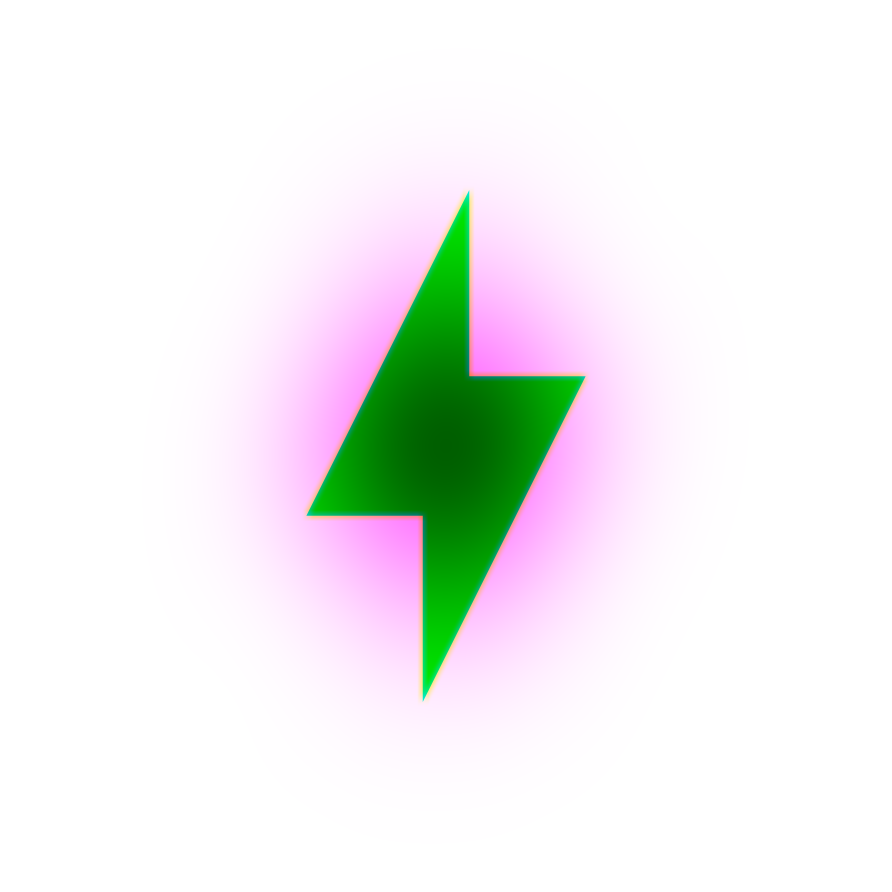
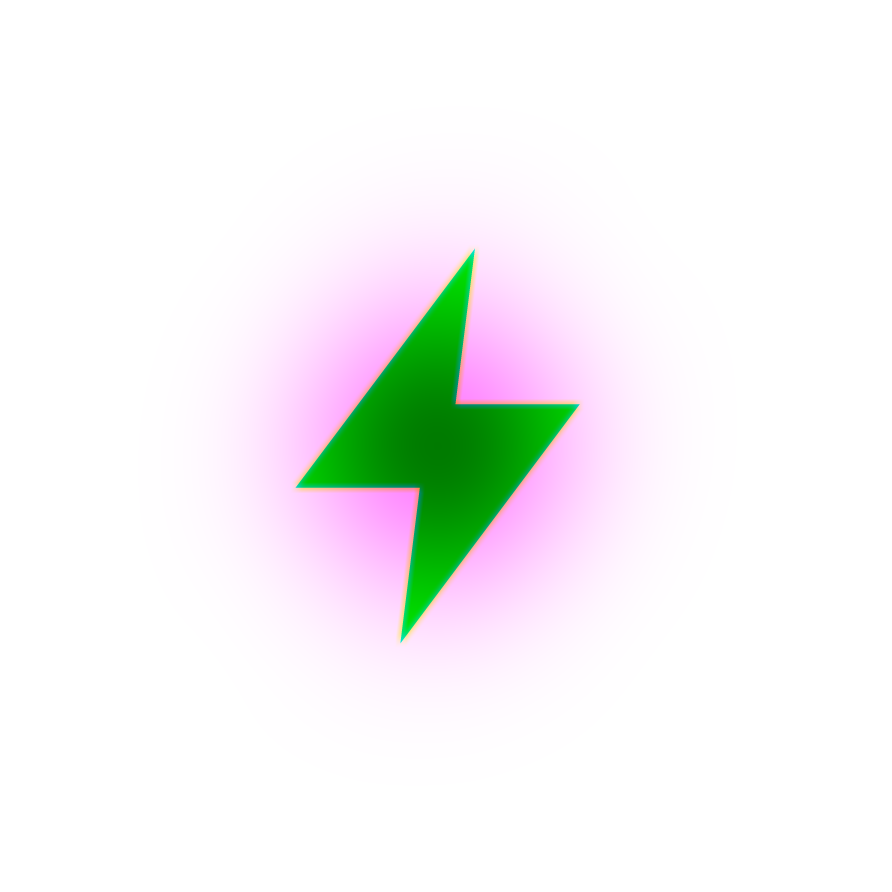
Match the Plasma bolt mask to the authored outline

Changed region(s): [[0.333, 0.2119, 0.6659, 0.787]]

diff --git a/tool/heatmap_texture.dart b/tool/heatmap_texture.dart
@@ -10,43 +10,34 @@
 //   R  the shape itself: 0 inside the mark, 1 outside
 //   G  the shape under a wide blur: drives the inner and outer glow
 //   B  the shape under a tight blur: the hot contour at the edge
-// The sizes follow the same proportions (blur 15% of the mark, padding 2.5
-// blurs), on a square canvas so the widget can be square.
+// The square texture keeps the original blur radii and padding.
 import 'dart:io';
+import 'dart:math' as math;
 import 'dart:typed_data';
 
 import 'package:image/image.dart' as img;
 
-/// Material Design Icons' lightning-bolt, the bolt Syrius uses for plasma,
-/// on its 24 unit grid: M11 15H6L13 1V9H18L11 23V15Z.
+/// The Plasma and Fuse mockups use M13 2 4 14h7l-1 8 9-12h-7z.
 const List<List<double>> _bolt = <List<double>>[
-  <double>[11, 15],
-  <double>[6, 15],
-  <double>[13, 1],
-  <double>[13, 9],
-  <double>[18, 9],
-  <double>[11, 23],
+  <double>[13, 2],
+  <double>[4, 14],
+  <double>[11, 14],
+  <double>[10, 22],
+  <double>[19, 10],
+  <double>[12, 10],
 ];
 
-const int _mark = 512;
+const int _rasterBase = 512;
 
 void main(List<String> args) {
   if (args.length == 2 && args[0] == '--inspect') {
     _inspect(args[1]);
     return;
   }
-  final int maxBlur = (_mark * 0.15).floor();
+  final int maxBlur = (_rasterBase * 0.15).floor();
   final int padding = (maxBlur * 2.5).ceil();
-  final int size = _mark + 2 * padding;
-
-  // The bolt, centred, as tall as the mark area.
-  final double scale = _mark / 22; // the path spans y 1..23
-  final double offsetX = padding + (_mark - 12 * scale) / 2 - 6 * scale;
-  final double offsetY = padding - 1 * scale;
-  final List<List<double>> polygon = <List<double>>[
-    for (final List<double> p in _bolt)
-      <double>[p[0] * scale + offsetX, p[1] * scale + offsetY],
-  ];
+  final int size = _rasterBase + 2 * padding;
+  final List<List<double>> polygon = _boltOutline(size);
 
   final Uint8List gray = Uint8List(size * size);
   const int samples = 4;
@@ -82,6 +73,35 @@ void main(List<String> args) {
   final File file = File('assets/images/plasma_heatmap.png')
     ..writeAsBytesSync(img.encodePng(out));
   stdout.writeln('${file.path}: ${size}x$size, ${file.lengthSync()} bytes');
+}
+
+List<List<double>> _boltOutline(int textureSize) {
+  // The 24-unit SVG is 54 px square in the reference's 120 px slots.
+  final double scale = textureSize * 54 / (120 * 24);
+  final double offset = (textureSize - 24 * scale) / 2;
+  final List<List<double>> outline = <List<double>>[];
+  for (int i = 0; i < _bolt.length; i++) {
+    final List<double> point = _bolt[i];
+    final (double ax, double ay) =
+        _leftNormal(_bolt[(i + _bolt.length - 1) % _bolt.length], point);
+    final (double bx, double by) =
+        _leftNormal(point, _bolt[(i + 1) % _bolt.length]);
+    // Expand the filled polygon by the reference's 1-unit miter stroke.
+    // All six joins fit inside the SVG default miter limit.
+    final double extension = 0.5 / (1 + ax * bx + ay * by);
+    outline.add(<double>[
+      offset + (point[0] + (ax + bx) * extension) * scale,
+      offset + (point[1] + (ay + by) * extension) * scale,
+    ]);
+  }
+  return outline;
+}
+
+(double, double) _leftNormal(List<double> start, List<double> end) {
+  final double dx = end[0] - start[0];
+  final double dy = end[1] - start[1];
+  final double length = math.sqrt(dx * dx + dy * dy);
+  return (-dy / length, dx / length);
 }
 
 bool _contains(List<List<double>> polygon, double x, double y) {

diff --git a/test/rearchitecture/utils/widgets/plasma_well_test.dart b/test/rearchitecture/utils/widgets/plasma_well_test.dart
@@ -1,3 +1,4 @@
+import 'dart:math' as math;
 import 'dart:ui' as ui;
 
 import 'package:flutter/rendering.dart';
@@ -99,7 +100,24 @@ void main() {
       await tester.pump();
     }
     expect(mark, findsOneWidget);
-    expect((await _markPixels(tester, mark)).getUint32(center), 0xffffffff);
+    final ByteData idle = await _markPixels(tester, mark);
+    expect(idle.getUint32(center), 0xffffffff);
+    int left = size;
+    int top = size;
+    int right = 0;
+    int bottom = 0;
+    for (int y = 0; y < size; y++) {
+      for (int x = 0; x < size; x++) {
+        if (idle.getUint32((y * size + x) * 4) != 0xffffffff) continue;
+        left = math.min(left, x);
+        top = math.min(top, y);
+        right = math.max(right, x);
+        bottom = math.max(bottom, y);
+      }
+    }
+    // Allow for texture sampling of the authored 54 px viewport's edges.
+    expect(right - left + 1, closeTo(36, 3));
+    expect(bottom - top + 1, closeTo(48, 3));
     await tester.pumpWidget(host(active: true));
     await tester.pump();
     final ByteData initial = await _markPixels(tester, mark);

diff --git a/lib/rearchitecture/utils/widgets/plasma_glow.dart b/lib/rearchitecture/utils/widgets/plasma_glow.dart
@@ -58,8 +58,7 @@ class PlasmaGlow extends StatefulWidget {
     super.key,
   });
 
-  /// The side of the square the mark is drawn in. The bolt itself fills
-  /// about 57% of it; the rest is room for the glow.
+  /// The square for the mark and its glow. The bolt's viewport fills 45%.
   final double size;
 
   /// Whether the heat moves.

diff --git a/PROMPT-redesign-build.md b/PROMPT-redesign-build.md
@@ -928,8 +928,15 @@ Both [verified Details images](https://github.com/edgepillar/syrius/actions/runs
 show a pink bolt with blue glow. The reference has a white bolt through
 the pink and blue glow in both themes. The heatmap now composites a white
 core through the original anti-aliased mask. The existing clock and outer
-heat remain in use. The original silhouette and fresh native comparison
-remain open.
+heat remain in use. The mask now follows the authored six-point outline
+with its one-unit stroke in a 54 px viewport within the 120 px slot.
+The raster generator retains the original halo blur radii and texture size.
+Bilinear sampling at 120 px shows that the solid mask differs at 32
+pixels in dark and 41 in light for either Plasma screen.
+The prior mask differed at 293 and 290 pixels. This counts pixels where
+the mask's red channel is at most 3 and compares them with reference
+pixels whose RGB channels are all at least 252. The full native shader
+comparison remains open.
 
 ### Transfer address chip at `fb3b2a01`
 
